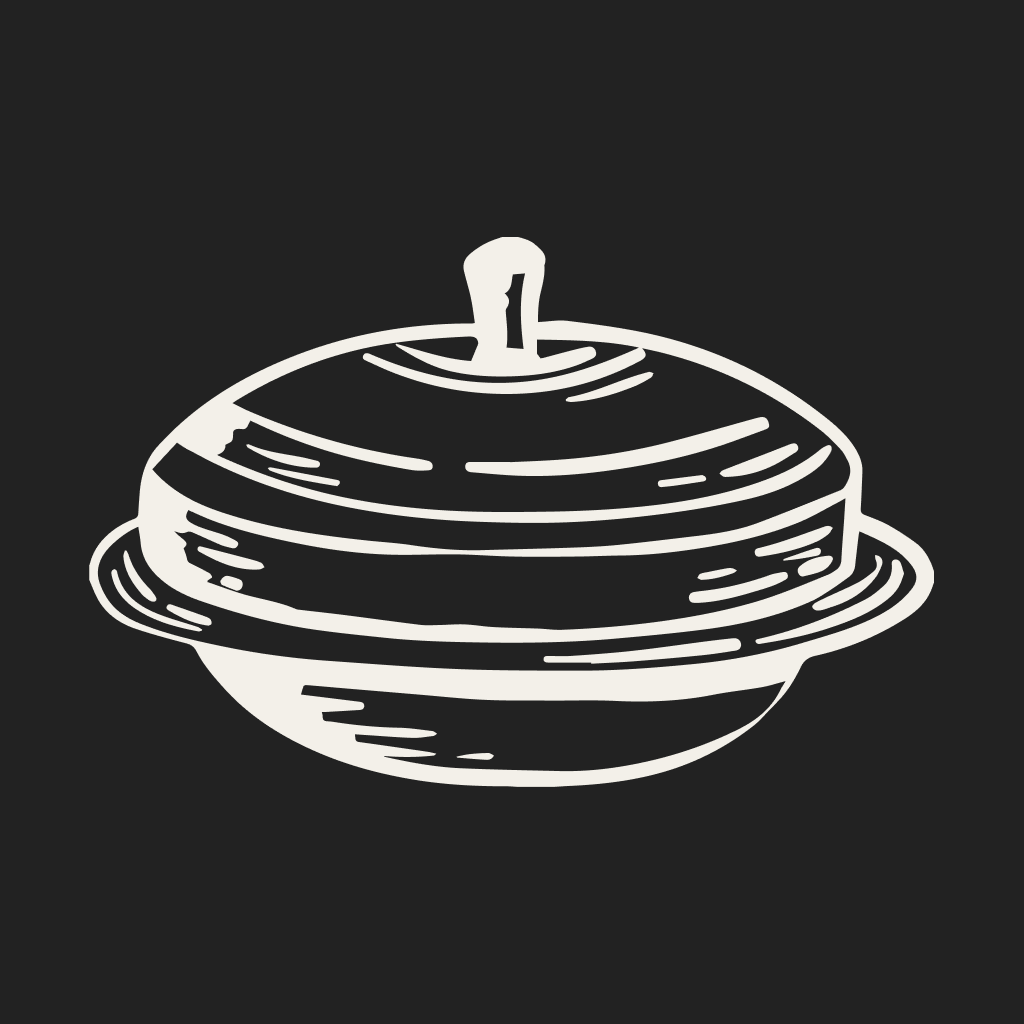
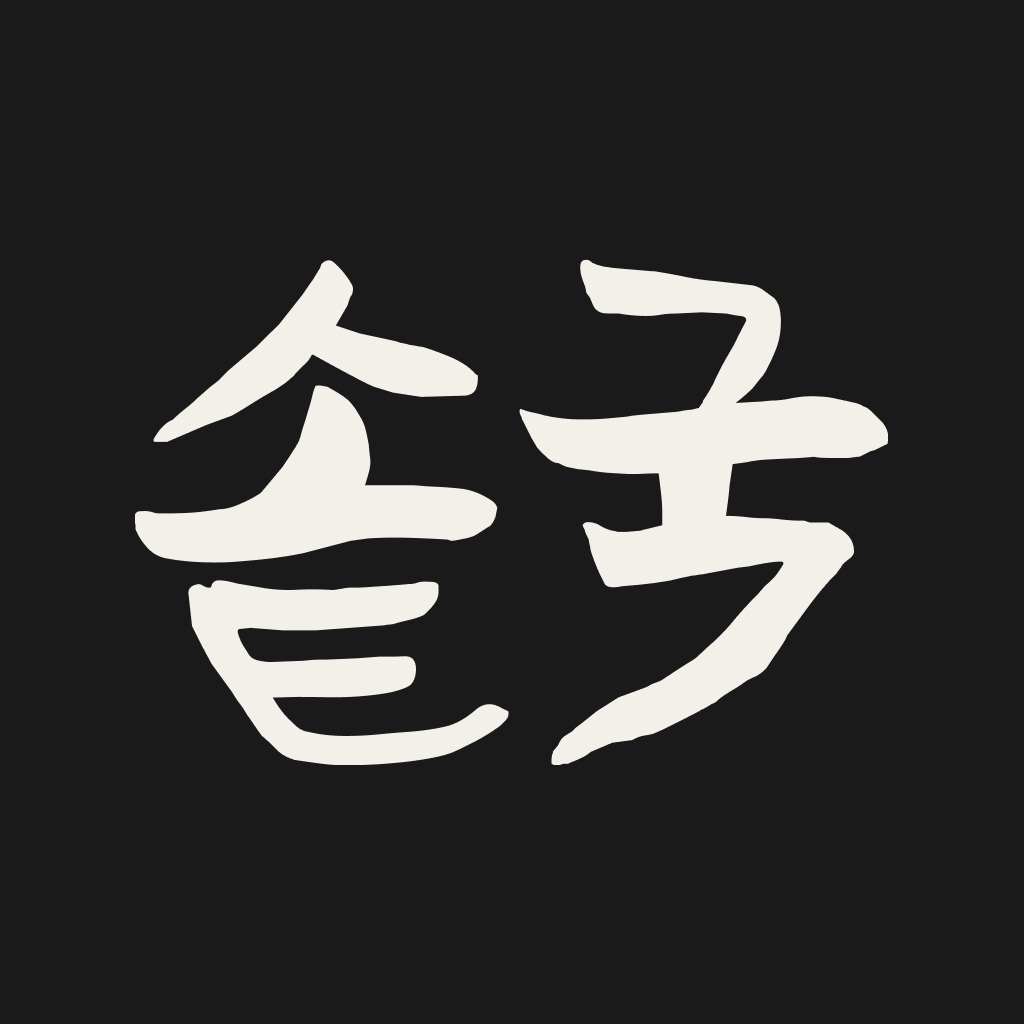
feat: 앱 아이콘 이미지 한글버전 수정

Changed region(s): [[0.0625, 0.2188, 0.9062, 0.7812]]

diff --git a/version.js b/version.js
@@ -1,4 +1,4 @@
 // 앱 전체 버전을 한 곳에서 관리합니다.
-export const APP_VERSION = "v2.1.2 Buildit.";
+export const APP_VERSION = "v2.1.3 Buildit.";
 
 // 개발중입니다. 주석 관리 잘하기